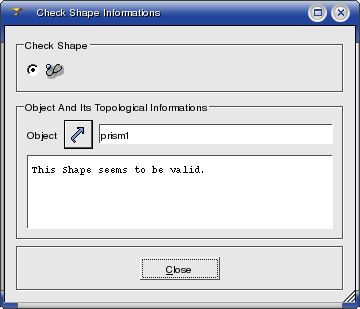
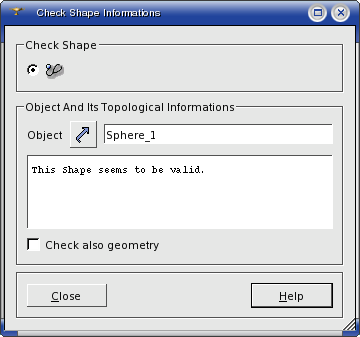
Update documentation in accordance with bug PAL12608.

diff --git a/doc/salome/gui/GEOM/files/salome2_sp3_measuregui_functions.htm b/doc/salome/gui/GEOM/files/salome2_sp3_measuregui_functions.htm
@@ -38,7 +38,7 @@ img_whs16 { border:none; width:360px; height:328px; float:none; border-style:non
 p.whs17 { font-size:12pt; font-weight:normal; }
 img_whs18 { border:none; width:360px; height:290px; float:none; border-style:none; }
 img_whs19 { border:none; width:360px; height:405px; float:none; border-style:none; }
-img_whs20 { border:none; width:360px; height:309px; float:none; border-style:none; }
+img_whs20 { border:none; width:360px; height:337px; float:none; }
 p.whs21 { font-size:12pt; margin-left:40px; text-indent:-40px; }
 img_whs22 { border:none; width:25px; height:23px; border-style:none; }
 ul.whs23 { list-style:disc; }
@@ -174,15 +174,13 @@ if (window.writeIntopicBar)
 
 <p class="whs1">&nbsp;</p>
 
-<p class="whs1"><span style="font-size: 12pt;"><font size=3 style="font-size:12pt;"><b style="font-weight: bold;">Description:</b> 
- Returns the coordinates of a point.</font></span></p>
+<p class="whs1"><span style="font-size: 12pt;"><font size=3 style="font-size:12pt;">Returns the 
+ coordinates of a point.</font></span></p>
 
 <p class="whs1">&nbsp;</p>
 
 <p class="whs1"><b style="font-weight: bold;">Result:</b> Point 
  coordinates (X, Y, Z) in 3D space in the form of Python Tuple.</p>
-
-<p class="whs1">&nbsp;</p>
 
 <p class="whs1"><span style="font-weight: bold;"><B>TUI command:</B></span> 
  <span style="font-style: italic;"><I>geompy.PointCoordinates(Point)</I></span>, 
@@ -203,16 +201,13 @@ if (window.writeIntopicBar)
 
 <p class="whs9">&nbsp;</p>
 
-<p class="whs1"><b style="font-weight: bold;">Description:</b> 
- Return the properties (Length, Surface &amp; Volume) of a definite geometrical 
- object.</p>
+<p class="whs1">Returns the properties (Length, Surface &amp; 
+ Volume) for the selected geometrical object.</p>
 
 <p class="whs1">&nbsp;</p>
 
 <p class="whs1"><b style="font-weight: bold;">Result:</b> Display 
  Length, Surface &amp; Volume in the form of Python Tuple.</p>
-
-<p class="whs1">&nbsp;</p>
 
 <p class="whs1"><span style="font-weight: bold;"><B>TUI command:</B></span> 
  <span style="font-style: italic;"><I>geompy.BasicProperties(Shape)</I></span>, 
@@ -232,15 +227,13 @@ if (window.writeIntopicBar)
 
 <p class="whs9">&nbsp;</p>
 
-<p class="whs1"><b style="font-weight: bold;">Description:</b> 
- Creates a gravity center of a shape and returns its coordinates.</p>
+<p class="whs1">Calculates and returns the coordinates of the 
+ gravity center for the selected geometrical object.</p>
 
 <p class="whs1">&nbsp;</p>
 
 <p class="whs1"><b style="font-weight: bold;">Result:</b> GEOM_Object 
  (vertex).</p>
-
-<p class="whs1">&nbsp;</p>
 
 <p class="whs1"><b style="font-weight: bold;">TUI Command:</b><i> 
  </i><span style="font-style: italic;"><I>geompy.MakeCDG(Shape)</I></span>, where 
@@ -261,12 +254,12 @@ if (window.writeIntopicBar)
 
 <p class="whs7">&nbsp;</p>
 
-<p class="whs1"><b style="font-weight: bold;">Description:</b> 
- Returns the inertia axis of a geometrical object.</p>
+<p class="whs1">Returns the axis of inertia for the selected 
+ geometrical object.</p>
 
 <p class="whs1">&nbsp;</p>
 
-<p class="whs1"><b style="font-weight: bold;">Result:</b> Display 
+<p class="whs1"><b style="font-weight: bold;">Result:</b> Displays 
  the matrix and moments of inertia in the form of Python Tuple (I11, I12, 
  I13, </p>
 
@@ -301,16 +294,14 @@ if (window.writeIntopicBar)
 
 <p class="whs7">&nbsp;</p>
 
-<p class="whs1"><b style="font-weight: bold;">Description:</b> 
- Returns the dimensions of the bounding box of a geometrical object.</p>
+<p class="whs1">Returns the dimensions of the bounding box 
+ for the selected geometrical object.</p>
 
 <p class="whs1">&nbsp;</p>
 
 <p class="whs1"><b style="font-weight: bold;">Result:</b> Displays 
  the dimensions of the bounding box of a geometrical object in the form 
  of Python Tuple (Xmin, Xmax, Ymin, Ymax, Zmin, Zmax).</p>
-
-<p class="whs1">&nbsp;</p>
 
 <p class="whs15">TUI command: <span style="font-weight: normal; font-style: italic;"><I>geompy.BoundingBox(Shape)</I></span><span 
  style="font-weight: normal;">, where Shape is a shape for which a bounding 
@@ -330,13 +321,8 @@ if (window.writeIntopicBar)
 
 <p class="whs7">&nbsp;</p>
 
-<p class="whs1"><b style="font-weight: bold;">Description:</b> 
- Returns the min. distance between 2 geometrical objects.</p>
-
-<p class="whs1">&nbsp;</p>
-
-<p class="whs1"><b style="font-weight: bold;">Result:</b> Displays 
- the min. distance.</p>
+<p class="whs1">Returns the minimum distance between two geometrical 
+ objects.</p>
 
 <p class="whs1">&nbsp;</p>
 
@@ -358,16 +344,14 @@ if (window.writeIntopicBar)
 
 <p class="whs9">&nbsp;</p>
 
-<p class="whs1"><b style="font-weight: bold;">Description:</b> 
- Returns the tolerance of a geometrical object.</p>
+<p class="whs1">Returns the maximum and the minimum tolerance 
+ for the selected geometrical object.</p>
 
 <p class="whs1">&nbsp;</p>
 
 <p class="whs1"><b style="font-weight: bold;">Result:</b> Displays 
  the tolerance values (FaceMinTol, FaceMaxTol, EgdeMinTol, EgdeMaxTol, 
  VertexMinTol, VertexMaxTol).</p>
-
-<p class="whs1">&nbsp;</p>
 
 <p class="whs15">TUI command: <span style="font-weight: normal; font-style: italic;"><I>geompy.Tolerance(Shape)</I></span><span 
  style="font-weight: normal;">, where Shape is a shape for which minimal 
@@ -387,13 +371,8 @@ if (window.writeIntopicBar)
 
 <p class="whs9">&nbsp;</p>
 
-<p class="whs1"><b style="font-weight: bold;">Description:</b> 
- Returns the type of a geometrical object.</p>
-
-<p class="whs1">&nbsp;</p>
-
-<p class="whs1"><b style="font-weight: bold;">Result:</b> Displays 
- all elements composing your geometrical object.</p>
+<p class="whs1">Displays types and quantities of all elements 
+ composing the selected geometrical object.</p>
 
 <p class="whs1">&nbsp;</p>
 
@@ -416,14 +395,13 @@ if (window.writeIntopicBar)
 
 <p class="whs7">&nbsp;</p>
 
-<p class="whs1"><b style="font-weight: bold;">Description:</b> 
- Returns True if this geometrical object is valid.</p>
+<p class="whs1">Checks the topology of the selected geometrical 
+ object and returns True if it is valid. <span style="font-weight: bold;"><B>Check 
+ also geometry</B></span> checkbox allows to test the geometry as well. </p>
 
 <p class="whs1">&nbsp;</p>
 
 <p class="whs1"><b style="font-weight: bold;">Result:</b> Boolean.</p>
-
-<p class="whs1">&nbsp;</p>
 
 <p class="whs1"><b style="font-weight: bold;">TUI Command:</b><i> 
  </i><span style="font-style: italic;"><I>geompy.CheckShape(Shape)</I></span>, 
@@ -431,9 +409,7 @@ if (window.writeIntopicBar)
 
 <p class="whs1">&nbsp;</p>
 
-<p class="whs11"><img src="../pics/measures9.png" x-maintain-ratio="TRUE" width="360px" height="309px" border="0" class="img_whs20"></p>
-
-<p class="whs11">&nbsp;</p>
+<p class="whs11"><img src="../pics/measures9.png" x-maintain-ratio="TRUE" width="360px" height="337px" border="0" class="img_whs20"></p>
 
 <p class="whs21">&nbsp;</p>
 
@@ -444,9 +420,9 @@ if (window.writeIntopicBar)
 
 <p class="whs21">&nbsp;</p>
 
-<p class="whs1"><b style="font-weight: bold;">Description:</b> 
- Checks whether a shape is a compound of glued blocks. To be considered 
- as a compound of blocks, the given shape must satisfy the following conditions:</p>
+<p class="whs1">Checks whether a shape is a compound of glued 
+ blocks. To be considered as a compound of blocks, the given shape must 
+ satisfy the following conditions:</p>
 
 <ul type="disc" class="whs23">
 	
@@ -484,8 +460,6 @@ if (window.writeIntopicBar)
 
 <p class="whs1"><b style="font-weight: bold;">Result:</b> Boolean; 
  highlight in the viewer.</p>
-
-<p class="whs1">&nbsp;</p>
 
 <p class="whs1"><b style="font-weight: bold;">TUI Command:</b><i> 
  </i><span style="font-style: italic;"><I>geompy.CheckCompoundOfBlocks(Compound). 
